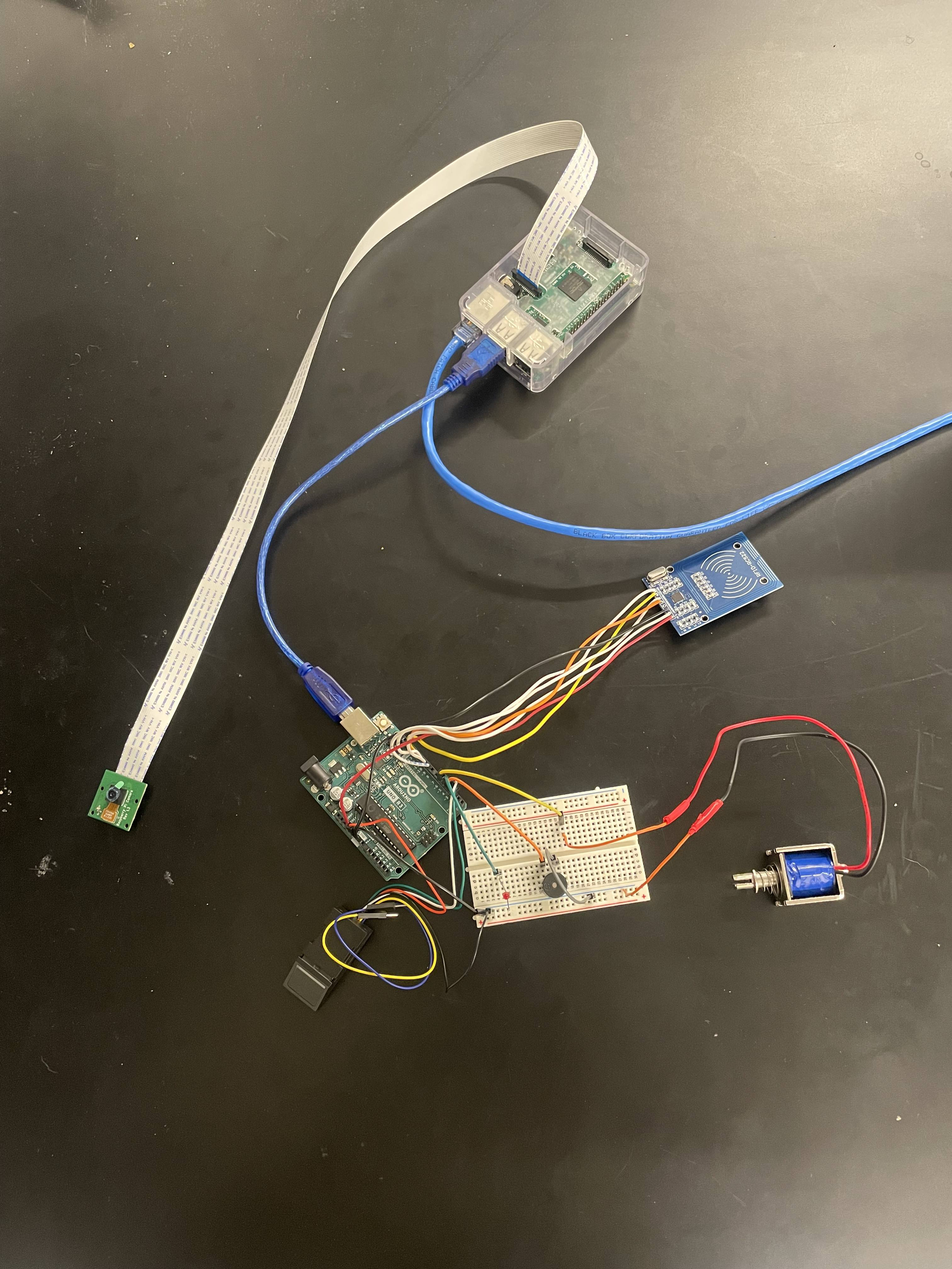
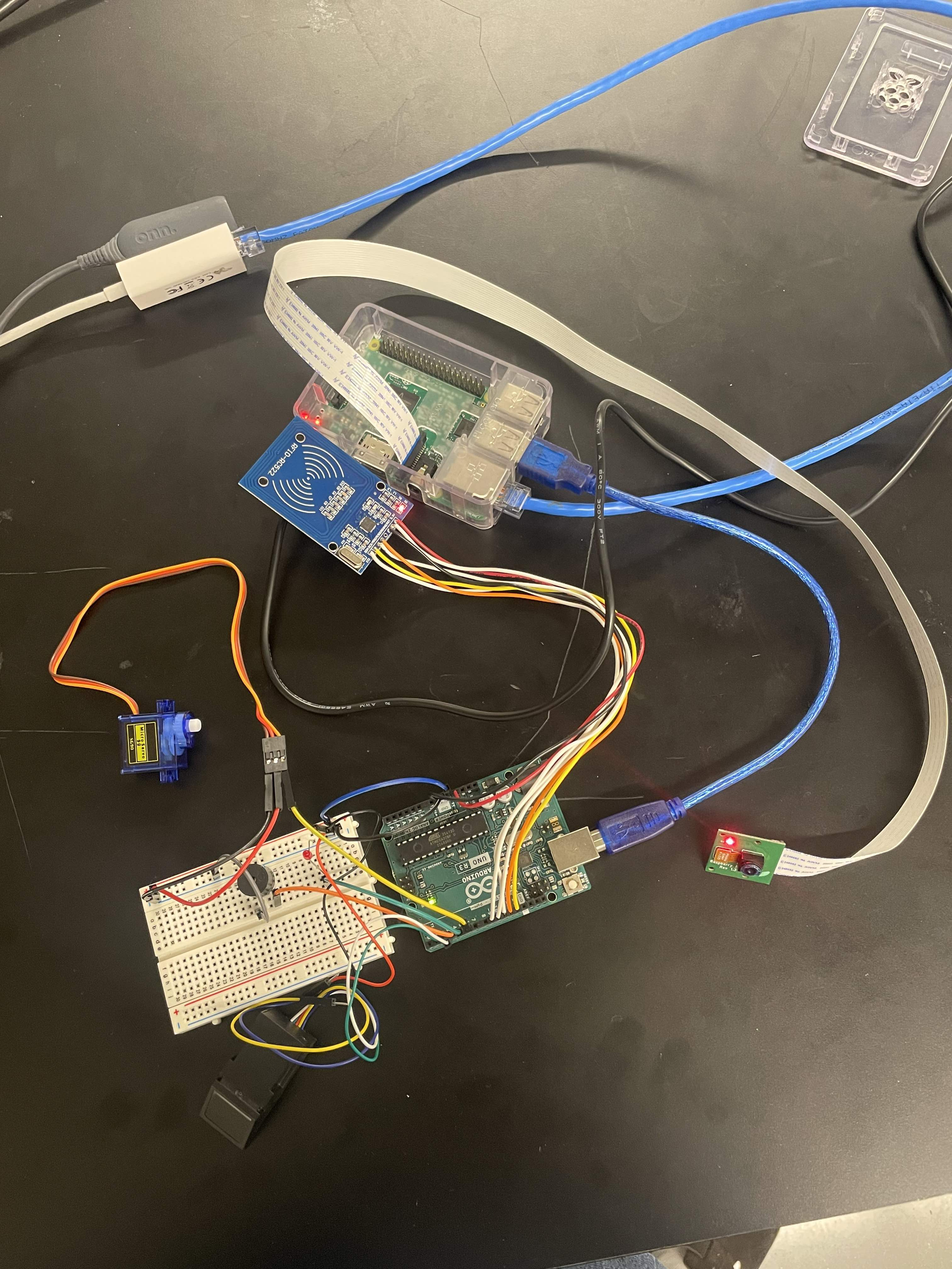
Servo addition and bug fix
Through testing with my group it was found that the solenoid is not
a great device solution to lock and unlock the mailbox. So, we've switched
to a servo implementation instead.

Also, I found an error in auth.sh involving the path in open_mailbox().
This bug was fixed in this commit.

Type: Bug Fix and New Feature
Author: Trenton Foster

diff --git a/README.md b/README.md
@@ -18,9 +18,7 @@ development on this page.
 * Piezo Buzzer
 * MFRC522 (RFID Read/Write)
 * DIYmall Optical Fingerprint Reader Sensor Module
-* Adafruit Medium Push-Pull Solenoid - 5V or 6V (NOTE: This is currently not functional. The
-current provided by the arduino is not enough to power the solenoid. However, the code to operate
-the solenoid is included in the project.)
+* Micro Servo SG90
 #### Dev Tools
 * Monitor for RPi GUI (this could also be done via vnc)
 * Ethernet Crossover Cable (to establish LAN connection to RPi)
